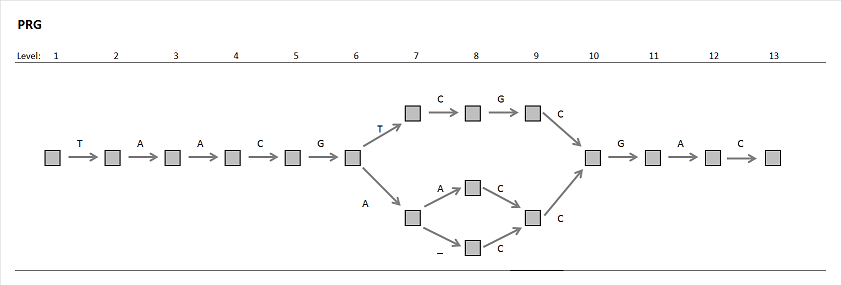
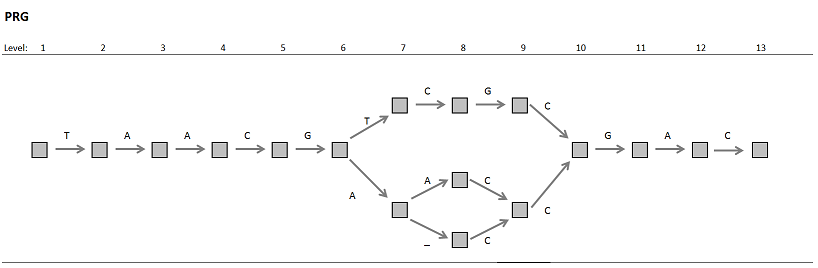
Corrections

diff --git a/_posts/2017-03-22-HLA-PRG-LA.md b/_posts/2017-03-22-HLA-PRG-LA.md
@@ -28,7 +28,7 @@ How do PRGs help in genetically complex regions? PRGs explicitly encode the mult
 Intuitively, if two alleles at different loci are separated by only one SNP, the PRG has the advantage that it "knows" about the existence of these highly similar alleles, and even if this additional information about population sequences is not always sufficient for unambiguously identifying the gene that a read belongs to, it can at least improve the quantification of alignment uncertainty.
 Here is a little toy PRG with 3 encoded haplotypes:
 
-![An example PRG with 3 haplotypes.](/downloads/HLPRGLA_Figure_PRG.png "An example PRG with 3 haplotypes.")
+<div style="text-align:center">![An example PRG with 3 haplotypes.](/downloads/HLPRGLA_Figure_PRG.png "An example PRG with 3 haplotypes.")</div>
 
 It should be clear that read alignment to such a graph data structure is intrinsically more complex than alignment to linear sequences; the implementation of HLA\*PRG also not very optimized.
 
@@ -45,11 +45,11 @@ So how does HLA\*PRG:LA actually work?
 
 Assume that we have an input MSA and a PRG constructed from the MSA (the graph shown is, for simplicity, fully recombining):
 
-![MSA and PRG](/downloads/HLPRGLA_MSAandPRG.png "A multiple sequence alignment and the corresponding fully recombining PRG")
+<div style="text-align:center">![MSA and PRG](/downloads/HLPRGLA_MSAandPRG.png "A multiple sequence alignment and the corresponding fully recombining PRG")</div>
 
 To align a read pair, we go through the following steps (see below for descriptions of the steps):
 
-![Graph alignment by linear approximation](/downloads/HLPRGLA_FullInferenceProcess.png "Graph alignment by linear approximation")
+<div style="text-align:center">![Graph alignment by linear approximation](/downloads/HLPRGLA_FullInferenceProcess.png "Graph alignment by linear approximation")</div>
 
 1. Shows the "long" sequences of the PRG that we map to with bwa (for HLA\*PRG:LA, this would be the 8 MHC haplotypes plus "genomic" sequences from IMGT; to bwa, all of these sequences are one combined reference genome).
 2. Is the read that we want to map.
@@ -70,7 +70,7 @@ We test the approach on the same datasets that HLA\*PRG was tested on, including
 All validation is carried out at G group resolution, which is the resolution often used for clinical typing and which translates into exon sequence (for the exons encoding the binding site of the HLA proteins; see the "HLA primer" for more information).
 HLA\*PRG, and, by extension, this algorithm were designed for whole-genome data –  and it is reassuring to see that performance on the whole-genome data is identical, and that performance on the exome data is even slightly improved!
 
-![Accuracy comparison](/downloads/HLAPRGLA_performance.png "Accuracy HLA\*PRG and HLA\*PRG:LA")
+<div style="text-align:center">![Accuracy comparison](/downloads/HLAPRGLA_performance.png "Accuracy HLA\*PRG and HLA\*PRG:LA")</div>
 
 Inferring HLA types for the 2 x 100bp NA12878 sample tool 32 CPU hours and 30G of memory; for the 2 x 250bp NA12878 sample, 31 CPU hours and 33G of memory.
 
